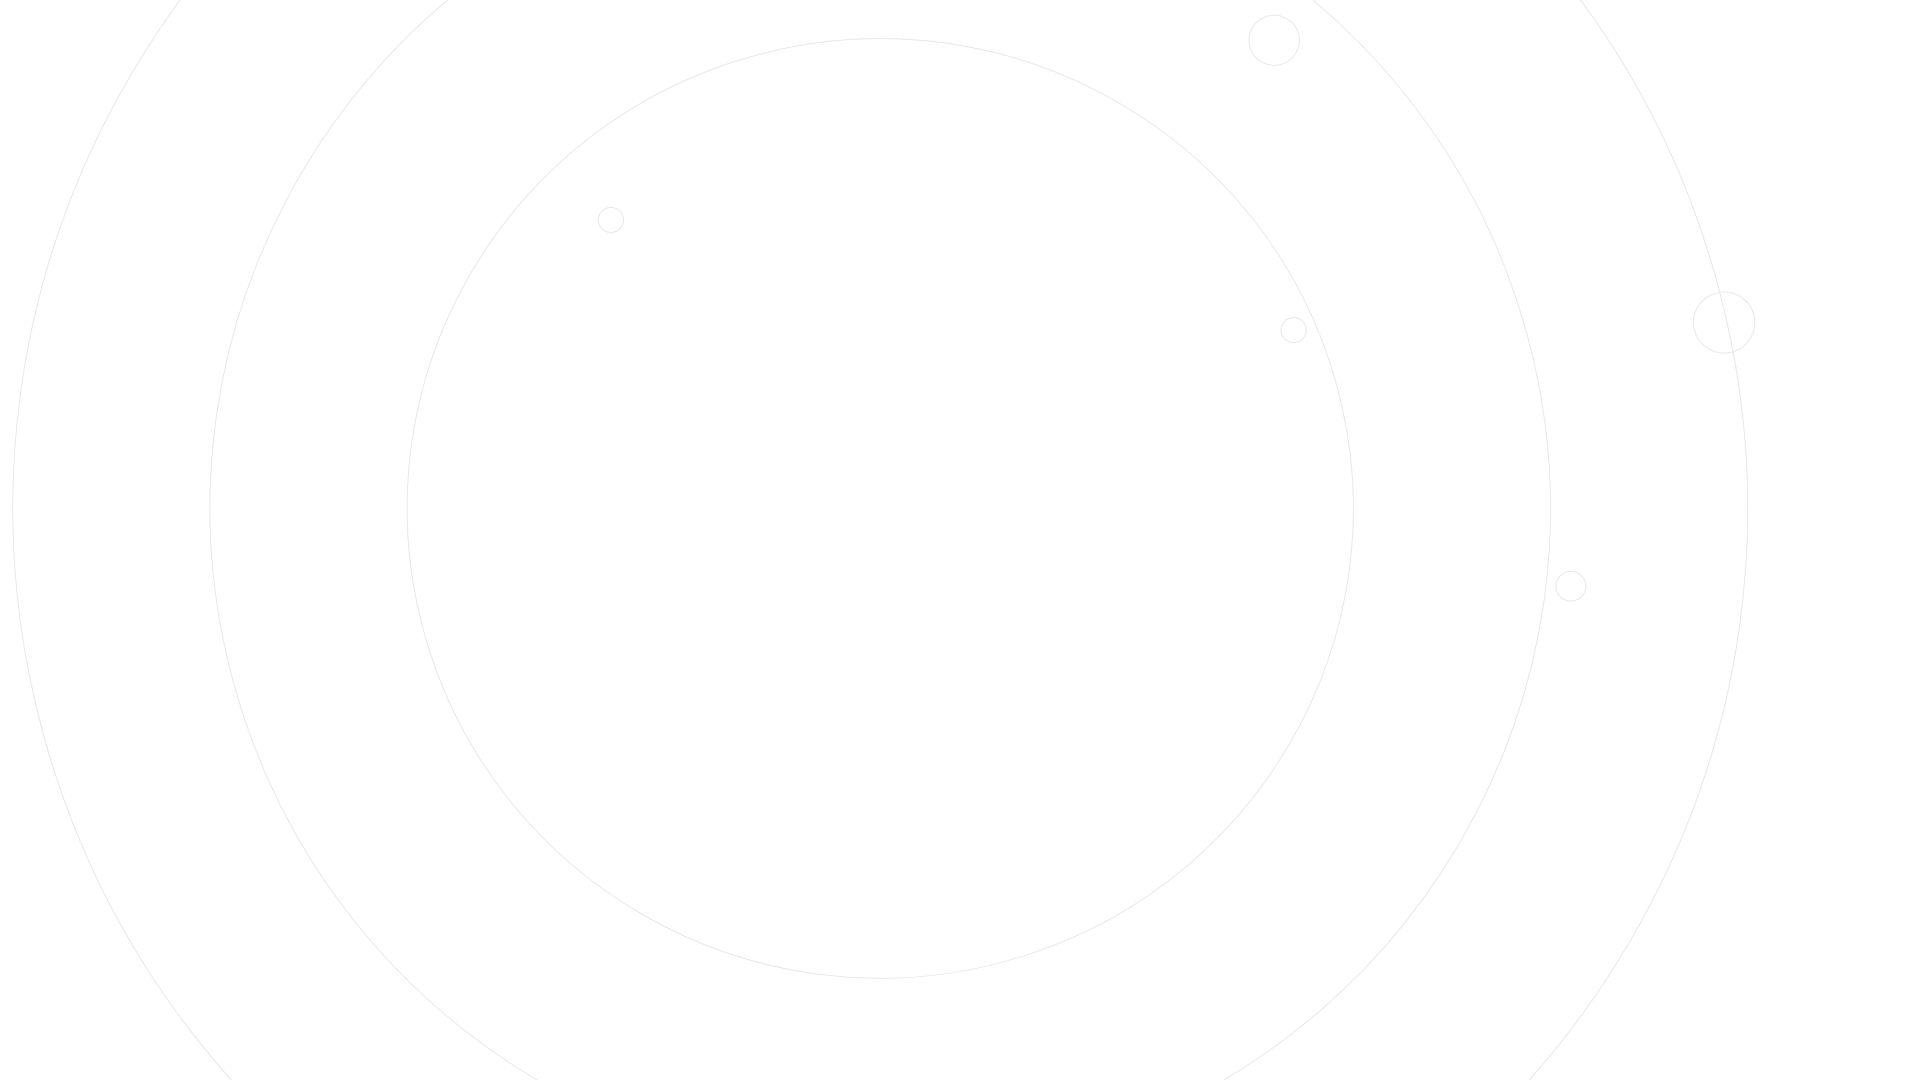
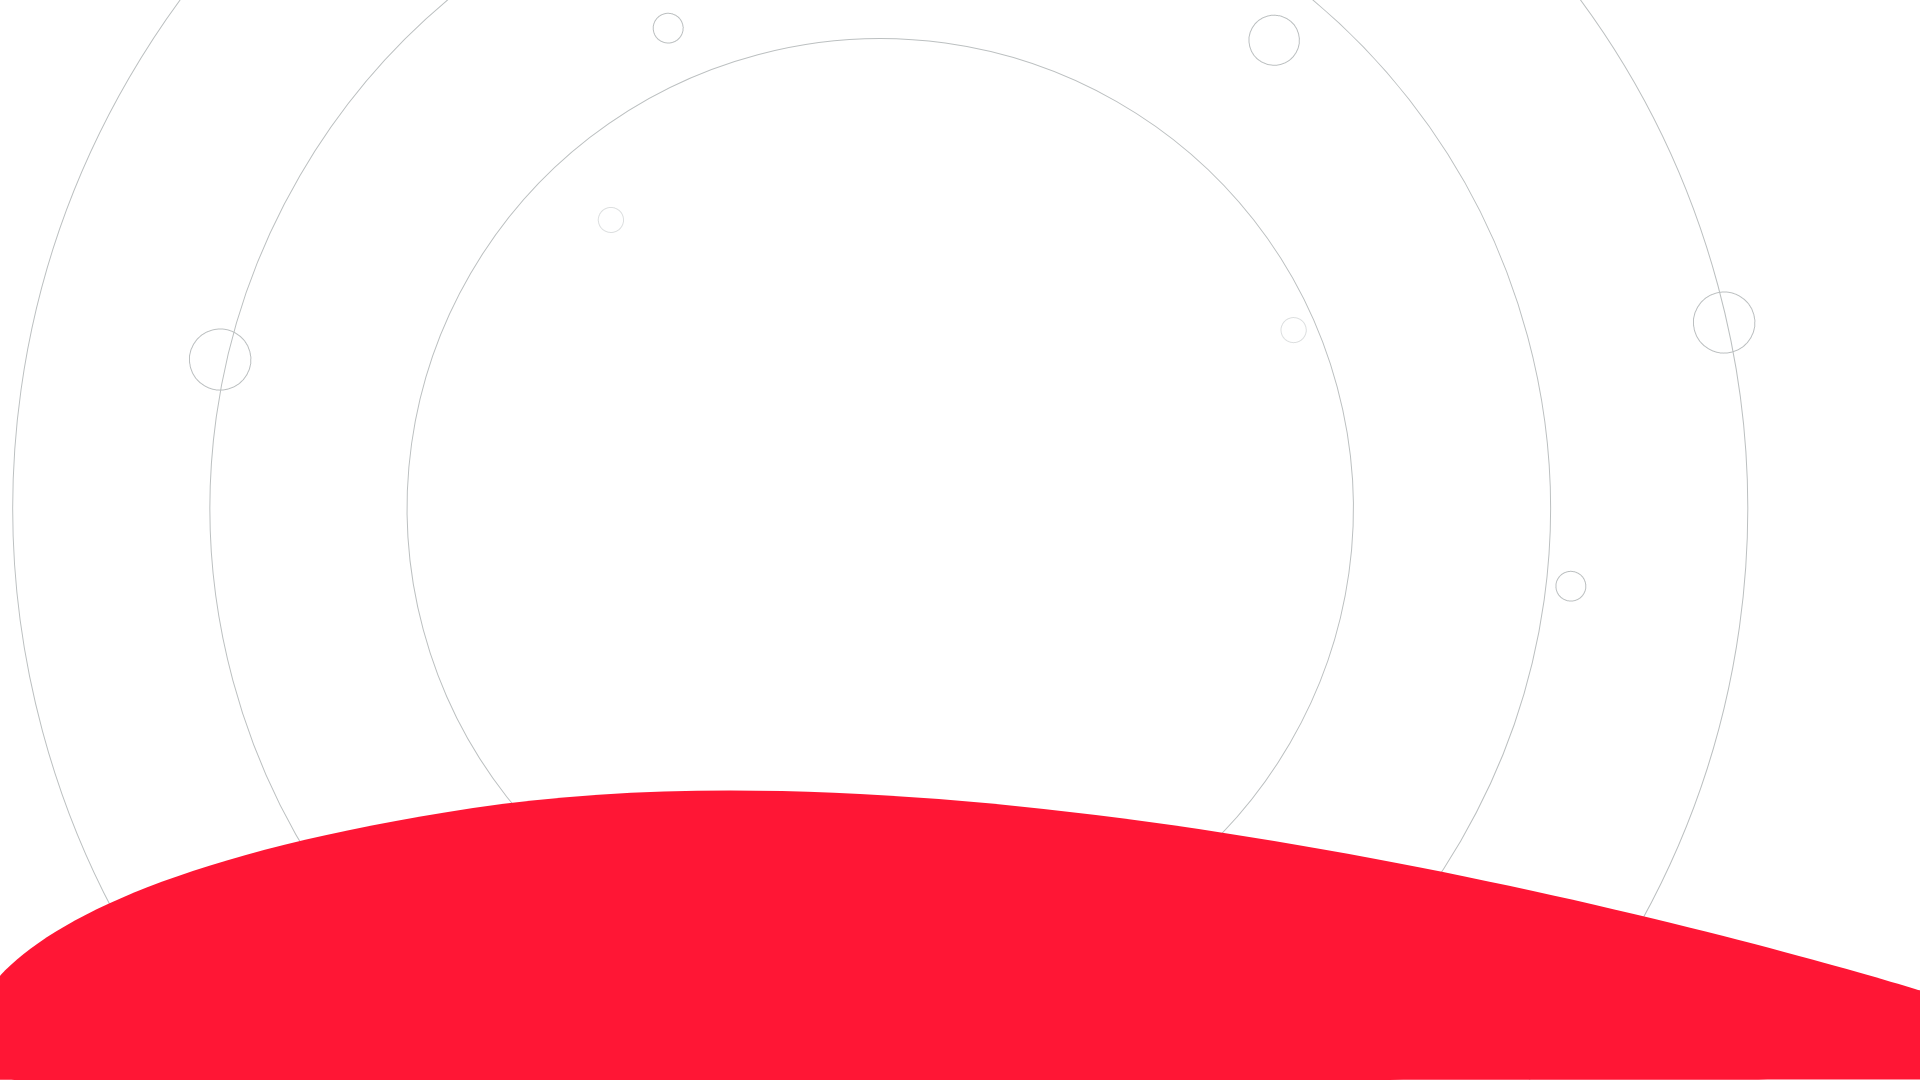
agregar secciones de tecnologias y contacto

Changed region(s): [[0.0, 0.7333, 1.0, 1.0]]

diff --git a/src/pages/home.js b/src/pages/home.js
@@ -6,6 +6,8 @@ import web_desing from '../assets/img/Diseño_Web.png'
 import apps from '../assets/img/apps.png'
 import sw from '../assets/img/software.png'
 import curve from '../assets/img/curva.png'
+import divider from '../assets/img/divisor-titulos.png'
+import technologies from '../assets/img/tecnologias.png'
 import construction from '../assets/img/construccion.png'
 
 const Home = () => (
@@ -36,7 +38,7 @@ const Home = () => (
     <div className='container'>
       <div align="center" className='wave-text'>
         <h1 className="title">PODEMOS CREAR</h1>
-        <hr/>
+        <img src={divider} />
         <p className='subtitle'>Nam liber tempor cum soluta nobis eleifend option congue <br/> nihil imperdiet doming id quod mazim.</p>
       </div>
       <div className='columns'>
@@ -93,13 +95,13 @@ const Home = () => (
         </div>
       </div>
     </div>
-
+    <img src={curve} className='curve' />
   </div>
 
   <div className='construction'>
     <div align="center">
       <h1><b>CONSTRUYAMOS</b> ALGO GENIAL JUNTOS</h1>
-      <hr />
+      <img src={divider} />
       <p>Nam liber tempor cum soluta nobis eleifend option congue <br /> nihil imperdiet doming id quod mazim.</p>
     </div>
     <div className='columns'>
@@ -124,6 +126,31 @@ const Home = () => (
         <div>
           <p><b>Nos enfocamos en brindar el <br /> mejor servicio, al menor costo.</b></p>
           <p>Lorem ipsum dolor sit amet, consectetur adipiscing elit. In pulvinar, enim ac tincidunt tempus, mi quam ornare leo, eget dignissim arcu mauris vel diam. Fusce non justo rutrum, aliquet quam eget, eleifend nibh. Sed lacinia, dui non feugiat consequat, neque massa sodales lectus.</p>
+        </div>
+      </div>
+    </div>
+  </div>
+
+  <div className='technologies'>
+    <div align='center'>
+      <h1><b>TECNOLOGÍAS</b> QUE ENCAJAN PERFECTO</h1>
+      <img src={divider} />
+      <p>Nam liber tempor cum soluta nobis eleifend option congue <br /> nihil imperdiet doming id quod mazim.</p>
+      <img src={technologies} />  
+    </div>
+  </div>
+
+  <div className='contact'>
+    <div className='columns'>
+      <div className='column'>
+        <h1><b>Nos encantaría saber</b></h1>
+        <h1><b>¿Qué tienes en mente?</b></h1>
+        <h3>Cuentanos, estamos listos para hacerlo realidad</h3>
+      </div>
+      <div className='column'>
+        <div className="card">
+          <div className="card-content">
+          </div>
         </div>
       </div>
     </div>

diff --git a/src/base.scss b/src/base.scss
@@ -25,7 +25,7 @@ html *
   height: 100vh;
   background-image: url('./assets/img/header-bg.png');
   background-repeat: no-repeat;
-  background-size: cover;
+  background-size: 100% 100%;
   .columns{
   	padding-top: 15vh
   }
@@ -55,7 +55,7 @@ html *
 
 .wave{
 	height: 100%;
-	background: linear-gradient(to bottom, rgba(220,12,19,1) 0%, rgba(242,78,28,1) 100%);
+	background: linear-gradient(to bottom, rgba(255,22,53,1) 0%, rgba(242,78,28,1) 100%);
 }
 
 .wave-text{
@@ -64,11 +64,7 @@ html *
 }
 
 .curve{
-	background-image: url('./assets/img/curva.png');
-	background-repeat: no-repeat;
-	background-size: 100%;
-	background-position: center bottom;
-	height: 100%;
+	margin-bottom: -6vh;
 }
 
 .card{
@@ -116,4 +112,20 @@ html *
 }
 .navbar-brand{
 	align-self: center;
+}
+
+.technologies{
+	height: 80vh;
+	background: linear-gradient(to bottom, rgba(255,181,64,1) 0%, rgba(244,104,61,1) 100%);
+}
+
+.contact{
+	height: 100vh;
+	background-image: url('./assets/img/bg-contacto.png');
+	background-repeat: no-repeat;
+	background-size: cover;
+	.card{
+		height: 500px;
+		background-color: rgb(255,181,64);
+	}
 }
